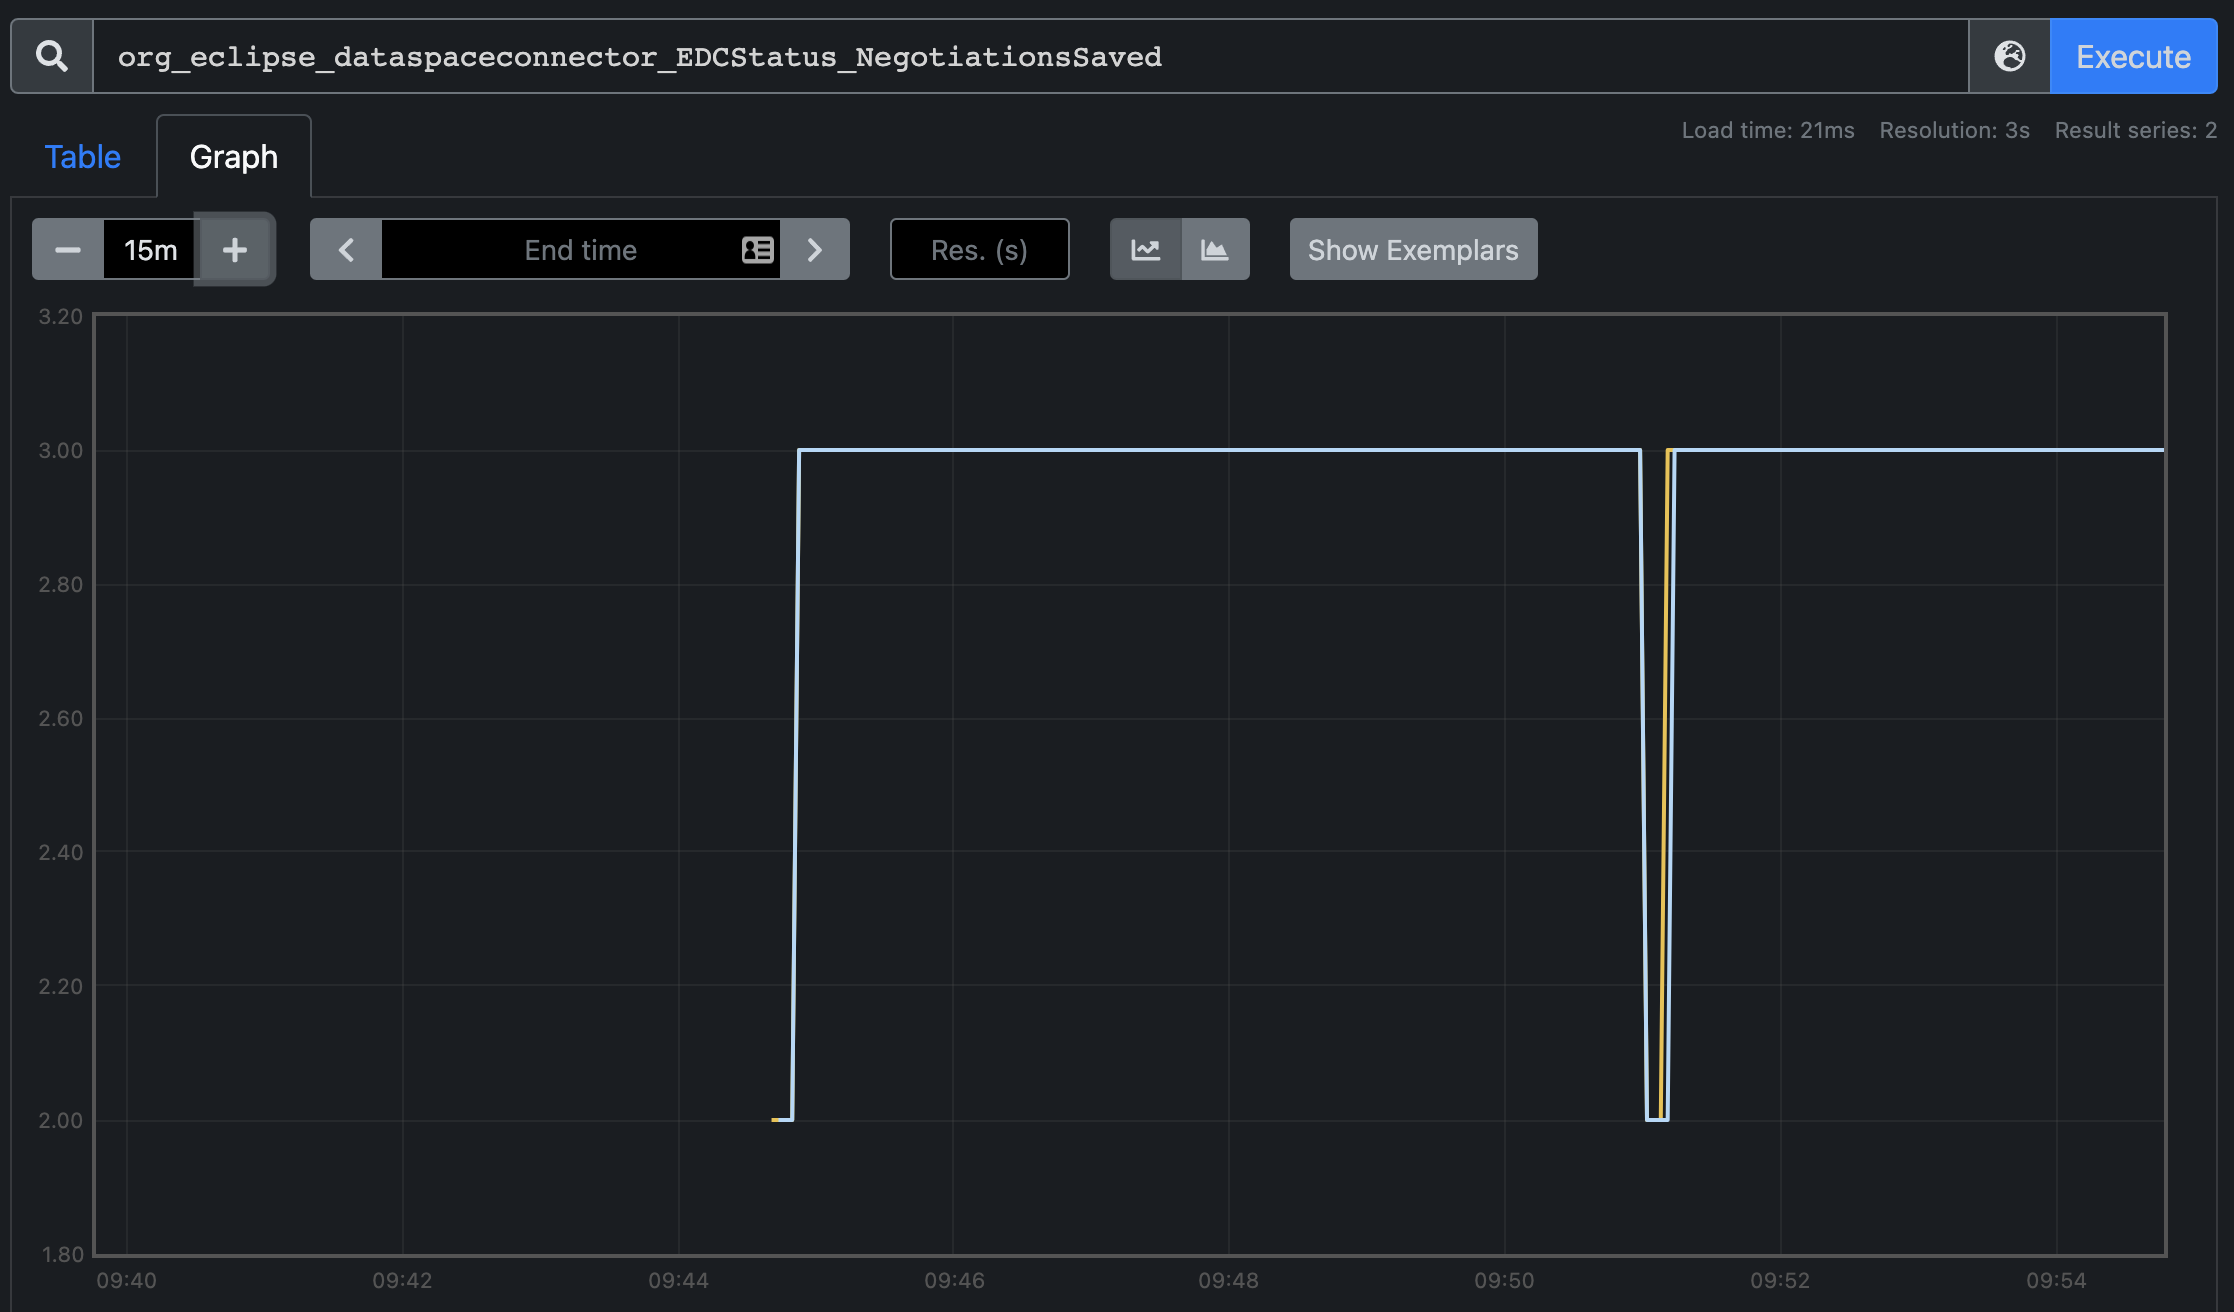
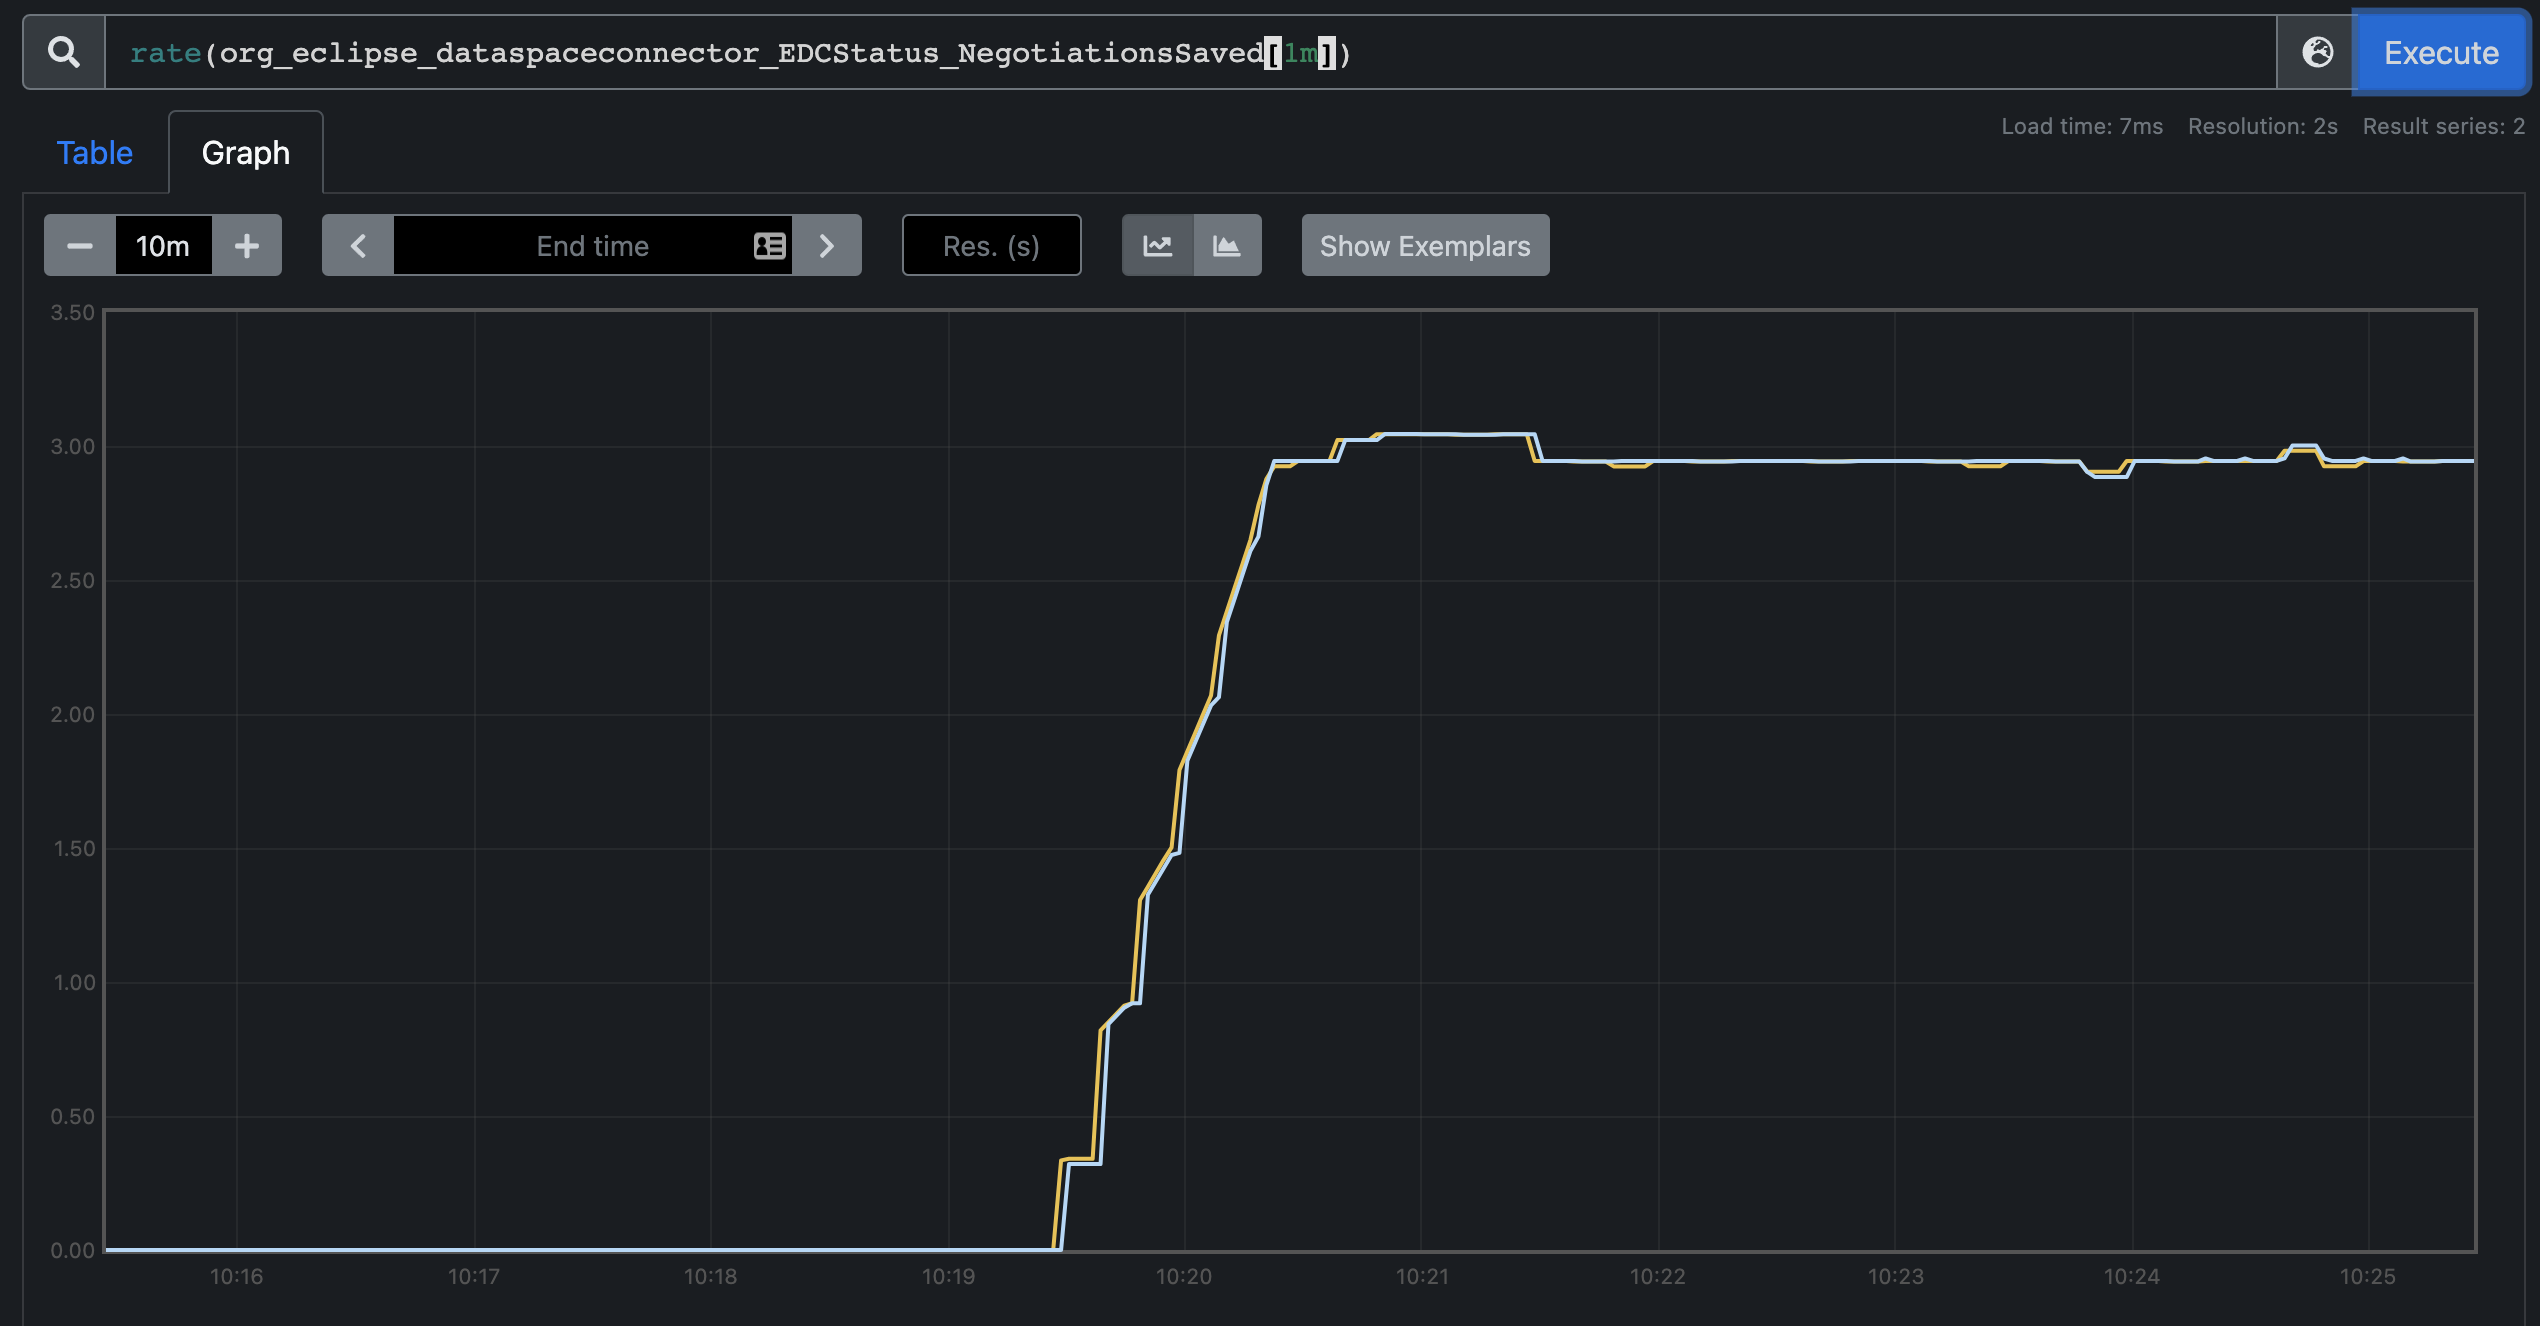
Improve integration test to have more meaningful metrics

diff --git a/METRICS.md b/METRICS.md
@@ -31,7 +31,7 @@ The docker-compose file spins multiple containers to demonstrate multiple metric
 - Azure Monitor [Application Insights](https://docs.microsoft.com/azure/azure-monitor/app/app-insights-overview) cloud-native Application Performance Management (APM) service
 - [Prometheus](https://prometheus.io/) open-source monitoring system (at [http://localhost:9090](http://localhost:9090))
 
-It also starts containers to fire cURL requests to initiate a contract negotiation process on the consumer connector. This causes EDC to send an HTTP request from the consumer to the provider connector, followed by another message from the provider to the consumer connector. See [the sample README file](samples/04-file-transfer//README.md) for more information about the negotiation process.
+It also starts containers to fire cURL requests repeatedly to initiate a contract negotiation process on the consumer connector. This causes EDC to send an HTTP request from the consumer to the provider connector, followed by another message from the provider to the consumer connector. See [the sample README file](samples/04-file-transfer//README.md) for more information about the negotiation process.
 
 ### Verify the metrics
 
@@ -45,7 +45,7 @@ Monitor the traces in [Application map](https://docs.microsoft.com/en-us/azure/a
 
 Go to [http://localhost:9090](http://localhost:9090) and browse metrics.
 
-Example: [query number of save negotiation operations](http://localhost:9090/graph?g0.expr=org_eclipse_dataspaceconnector_EDCStatus_NegotiationsSaved&g0.tab=0&g0.stacked=0&g0.show_exemplars=0&g0.range_input=15m).
+Example: [query number of save operations per second as measured over the last minute](http://localhost:9090/graph?g0.expr=rate(org_eclipse_dataspaceconnector_EDCStatus_NegotiationsSaved%5B1m%5D)&g0.tab=0&g0.stacked=0&g0.show_exemplars=0&g0.range_input=10m).
 
 ![Prometheus metric](.attachments/prometheus.png)
 
